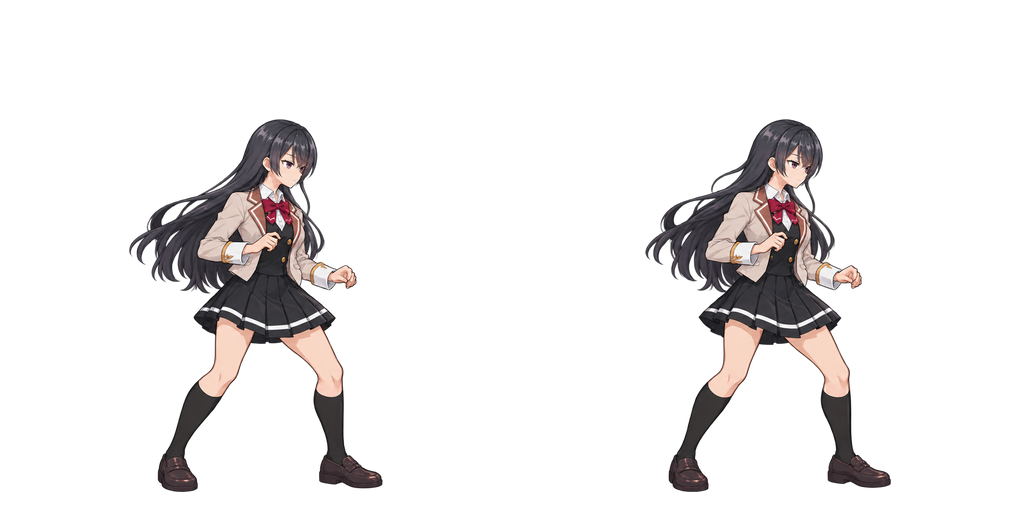
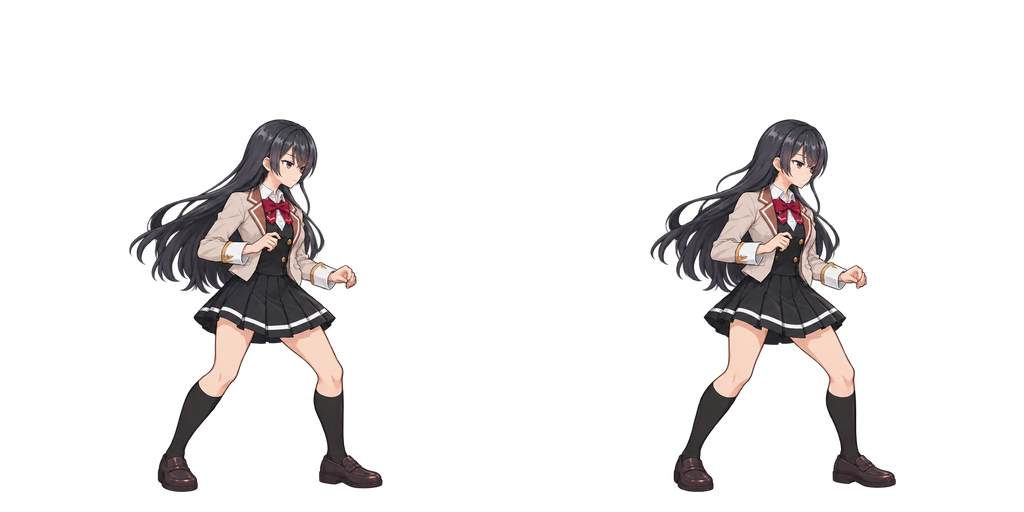
commit

Changed region(s): [[0.625, 0.2188, 0.875, 0.9688]]

diff --git a/src/capsule-preview.ts b/src/capsule-preview.ts
@@ -63,6 +63,12 @@ if(!localStorage.getItem(fightersJumpAlignKey)){
  for(const who of ['moon','ember'])edits[`${who}/jump/1`]=structuredClone((sourceEdits as CapsuleEdits)[`${who}/jump/1`]);
  draftRun();localStorage.setItem(fightersJumpAlignKey,'done');
 }
+const anIdleAlignKey=storageKey+'-an-idle-aligned-v1';
+if(!localStorage.getItem(anIdleAlignKey)){
+ localStorage.setItem(anIdleAlignKey+'-backup',localStorage.getItem(storageKey)??'{}');
+ edits['an/idle/1']=structuredClone((sourceEdits as CapsuleEdits)['an/idle/1']);
+ draftRun();localStorage.setItem(anIdleAlignKey,'done');
+}
 const authoredFrame=()=>Number(frame.value)-1;
 const selectedKey=()=>`${who.value}/${action.value}/${authoredFrame()}`;
 let selected=0;
